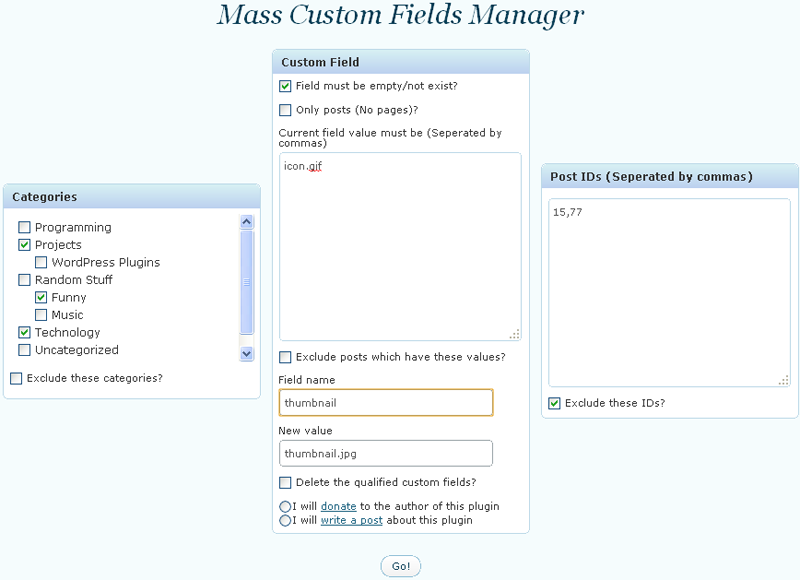
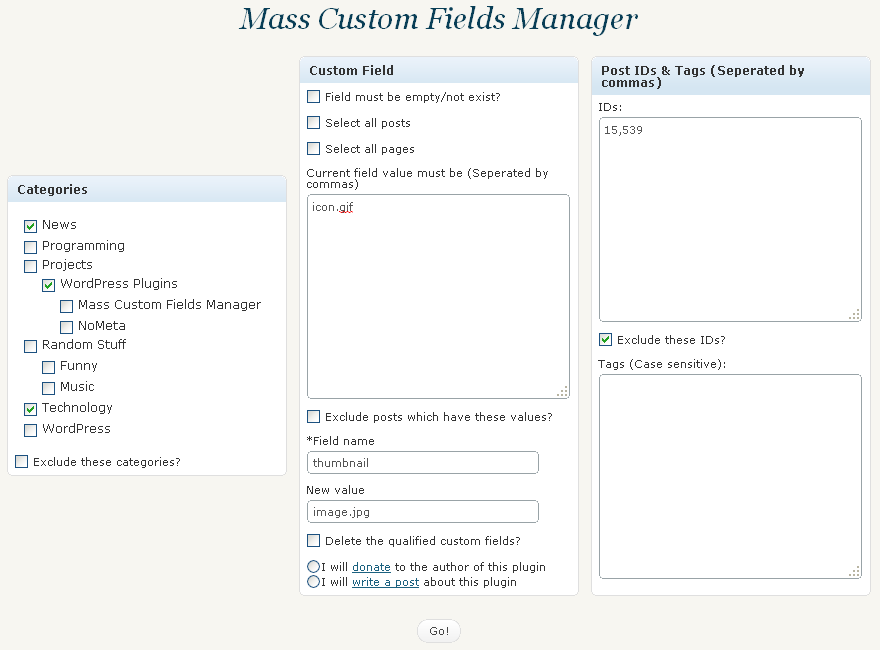
git-svn-id: https://plugins.svn.wordpress.org/mass-custom-fields-manager/trunk@133425 b8457f37-d9ea-0310-8a92-e5e31aec5664

diff --git a/general.js b/general.js
@@ -41,3 +41,31 @@ function empty( mixed_var ) {
 
     return false;
 }
+
+function deleteRow(id) {
+	document.getElementById('row'+id).innerHTML='';
+
+	return false;
+}
+function addMore(){
+	var tbody = document.getElementById('op_table').getElementsByTagName("TBODY")[0];
+
+	var row = document.createElement("TR");
+
+	var td1 = document.createElement("TD");
+	td1.innerHTML='<input type="text" name="mcfm_lftag[]" />';
+
+	var td2 = document.createElement("TD");
+	td2.innerHTML='<input type="text" name="mcfm_fname[]" />';
+
+	var td3 = document.createElement("TD");
+	td3.innerHTML='<input type="text" name="mcfm_fvalue[]" />';
+
+	row.appendChild(td1);
+	row.appendChild(td2);
+	row.appendChild(td3);
+
+	tbody.appendChild(row);
+
+	return false;
+  }

diff --git a/index.php b/index.php
@@ -1,7 +1,7 @@
 <?php
 /*
 Plugin Name: Mass Custom Fields Manager
-Plugin URI: http://orenyomtov.info/mass-custom-fields-manager-wordpress-plugin.html
+Plugin URI: http://orenyomtov.info
 Description: This plugin allows you to manage your posts & pages custom fields.
 Version: 0.9
 Author: Oren Yomtov
@@ -28,9 +28,12 @@ along with this program.  If not, see <http://www.gnu.org/licenses/>.
 add_action('init', 'mcfm_init');
 
 function mcfm_init() {
-	add_action('admin_menu', 'mcfm_config_page');
+	add_action('admin_menu', 'mcfm_config_pages');
 	add_action('admin_head', 'mcfm_admin_head');
-	add_filter( 'plugin_action_links', 'mcfm_actions', 10, 2 );
+	add_filter('plugin_action_links', 'mcfm_actions', 10, 2 );
+
+	add_action('save_post','mcfm_save_post');
+	add_action('wp_footer', 'mcfm_footer');
 }
 
 function mcfm_admin_head() {
@@ -38,22 +41,26 @@ function mcfm_admin_head() {
 	echo '<script type="text/javascript" src="' . get_bloginfo('wpurl') . '/wp-content/plugins/mass-custom-fields-manager/general.js"></script>';
 }
 
-function mcfm_config_page() {
+function mcfm_config_pages() {
 	if ( function_exists('add_submenu_page') )
 		add_submenu_page('tools.php', __('Mass Custom Fields Manager'), __('Mass Custom Fields Manager'), 'manage_options', 'mcfm', 'mcfm_conf');
+	if ( function_exists('add_options_page') )
+		add_options_page('MCFM Options', 'Mass Custom Fields Manager', 8, 'mcfm', 'mcfm_conf2');
 }
 
 function mcfm_conf() {
-	$field=$_POST['field'];
-	$id=$_POST['id'];
+	$field=trim($_POST['field']);
+	$id=trim($_POST['id']);
 	$new_value=$_POST['new_value'];
 	$empty=($_POST['empty']=='1')?' checked="checked"':'';
 	$pages=($_POST['pages']=='1')?' checked="checked"':'';
+	$posts=($_POST['posts']=='1')?' checked="checked"':'';
 	$delete=($_POST['deletee']=='1')?' checked="checked"':'';
 	$value=$_POST['value'];
 	$x_id=($_POST['x_id']=='1')?' checked="checked"':'';
+	$tag=trim($_POST['tag']);
 
-	echo '<div id="poststuff" class="metabox-holder"> <div class="wrap">
+	echo '<div id="poststuff" class="metabox-holder" style="direction:ltr"> <div class="wrap">
 <h2 style="font-size:30px;text-align:center">Mass Custom Fields Manager</h2>
 <form method="post" name="frmMain" id="frmMain" onsubmit="return isValid(this);">
 <table style="width:100%;vertical-align:top"><tr><td>';
@@ -67,13 +74,14 @@ echo '
 <div class="inside"> 
 
 <input type="checkbox" name="empty" id="empty" value="1"' . $empty . ' /><label for="empty"> Field must be empty/not exist?</label><br /><br />
-<input type="checkbox" name="pages" id="pages" value="1"' . $pages . ' /><label for="pages"> Only posts (No pages)?</label><br /><br />
+<input type="checkbox" name="pages" id="pages" value="1"' . $pages . ' /><label for="pages"> Select all posts</label><br /><br />
+<input type="checkbox" name="posts" id="posts" value="1"' . $posts . ' /><label for="posts"> Select all pages</label><br /><br />
 
 Current field value must be (Seperated by commas)<br />
 <textarea name="value" id="value" style="width:99%;height:205px" class="mcfm_input">' . stripslashes($value) . '</textarea><br />
 <input type="checkbox" name="x_value" id="x_value" value="1"' . ( ($_POST['x_value']=='1')?' checked="checked"':'' ) . ' /><label for="x_value"> Exclude posts which have these values?</label><br /><br />
 
-Field name<br />
+*Field name<br />
 <input name="field" id="field" value="' . stripslashes($field) . '" class="mcfm_input" size="35" /><br />
 
 New value<br />
@@ -85,11 +93,15 @@ New value<br />
 </div> 
 </div> 
 </td><td>
-<div id="categorydiv" class="postbox" style="height:275px;width:278px;vertical-align:top;float:left"> 
-<h3 class="hndle"><span>Post IDs (Seperated by commas)</span></h3> 
+<div id="categorydiv" class="postbox" style="width:278px;vertical-align:top;float:left"> 
+<h3 class="hndle"><span>Post IDs & Tags (Seperated by commas)</span></h3> 
 <div class="inside"> 
+IDs:
 <textarea name="id" id="id" style="width:99%;height:205px" class="mcfm_input">' . stripslashes($id) . '</textarea><br />
-<input type="checkbox" name="x_id" id="x_id" value="1"' . $x_id . ' /><label for="x_id"> Exclude these IDs?</label>
+<input type="checkbox" name="x_id" id="x_id" value="1"' . $x_id . ' /><label for="x_id"> Exclude these IDs?</label><br /><br />
+
+Tags (Case sensitive):
+<textarea name="tag" id="tag" style="width:99%;height:205px" class="mcfm_input">' . stripslashes($tag) . '</textarea><br />
 </div> 
 </div> 
 </td></tr><tr><td colspan="3" style="text-align:center">
@@ -97,29 +109,34 @@ New value<br />
 </td></tr></table>
 </form>
 <div style="text-align:center">';
-if( empty($_POST['post_category']) && empty($id) && empty($value) && $_POST['deletee']<>'1' && $_POST['go']=='Go!' )
-	echo 'Please select a category/ID/current value.';
+if( empty($_POST['post_category']) && empty($id) && empty($value) && $_POST['deletee']<>'1' && $_POST['go']=='Go!' && !($_POST['pages']=='1') && !($_POST['posts']=='1') && empty($_POST['tag']) )
+	echo 'Please select a category/ID/current value/all posts/all pages/tags.';
 elseif ( empty($_POST['field']) )
 	echo 'Please enter the field\'s name.';
 elseif( $_POST['go']=='Go!' ) {
 
 		global $wpdb;
 
-		$sql="SELECT `ID` FROM `wp_posts` WHERE `post_status`='publish'";
+		$sql="SELECT `ID`,`post_title` FROM `wp_posts` WHERE `post_status`='publish'";
 		
 		if( !empty($id) )
 			$sql.=" AND `ID`" . ( ($_POST['x_id']=='1')?' NOT':'' ) . " IN ({$id})";
 		if( $_POST['pages']=='1' )
 			$sql.=" AND `wp_posts`.`post_type`='post'";
+		if( $_POST['posts']=='1' )
+			$sql.=" AND `wp_posts`.`post_type`='page'";
 
 		$posts=$wpdb->get_results($sql);
 		$final=array();
 /*var_dump($posts);
 echo '?' . $sql . '?';
 echo mysql_error();*/
+
 		foreach($posts as $p) {
-			if ( postQualifies($p->ID,$_POST['post_category'],$_POST['x_cat'],$id,$_POST['x_id'],$value,$_POST['x_value'],$_POST['empty'],$new_value,$field) )
+			if ( postQualifies($p->ID,$_POST['post_category'],$_POST['x_cat'],$id,$_POST['x_id'],$value,$_POST['x_value'],$_POST['empty'],$new_value,$field,$_POST['pages']=='1',$_POST['posts']=='1',explode(',',$tag)) ) {
 				array_push($final,$p->ID);
+				$finalposts.=$p->post_title . '<br />';
+			}
 		}
 
 		if( count($final)>0 ) {
@@ -132,16 +149,21 @@ echo mysql_error();*/
 				$act='added/changed';
 			}
 
-			echo count($final) . ' Meta tags have been ' . $act . ' successfully.';
+			echo count($final) . ' custom fields have been ' . $act . ' successfully in the following posts:<br/>';
 		}
 		elseif( count($posts)==0 )
 			echo 'No posts were found.';
 		else
 			echo 'No posts qualified your search.';
 
+		echo $finalposts;
+
 	}
 echo'<br />
 <script type="text/javascript" src="http://orenyomtov.info/downloads/plugins_outform.php?plugin=mcfm"></script>
+<p>
+If you want to add custom fields to posts which are <span style="font-weight:bold">created/saved</span> with a specific tag go to <a href="http://orenyomtov.info/wp-admin/options-general.php?page=mcfm">Settings->Mass Custom Fields Manager</a>.
+</p>
 </div></div>';
 }
 
@@ -157,7 +179,7 @@ function getPostCategories($id) {
 	return $final;
 }
 
-function postQualifies($p,$cats,$x_cat,$id,$x_id,$value,$x_value,$empty,$new_value,$field) {
+function postQualifies($p,$cats,$x_cat,$id,$x_id,$value,$x_value,$empty,$new_value,$field,$pages,$posts,$tags) {
 	global $wpdb;
 
 	$meta_value=get_post_meta($p,$field,true);
@@ -168,6 +190,16 @@ function postQualifies($p,$cats,$x_cat,$id,$x_id,$value,$x_value,$empty,$new_val
 		$ret=true;
 	else
 		$ret=false;
+
+	if($pages || $posts)
+		$ret=true;
+
+	if ( !empty($_POST['tag']) ) {
+		if( mcfm_in_array2(get_the_tags($p),$tags) )
+			$ret=true;
+		else
+			$ret=false;
+	}
 
 	if ( is_array($cats) ) {
 		if( $x_cat ) {
@@ -213,11 +245,11 @@ function postQualifies($p,$cats,$x_cat,$id,$x_id,$value,$x_value,$empty,$new_val
 function categoriesCheck() {
 	$x_cat=($_POST['x_cat']=='1')?' checked="checked"':'';
 ?>
-<div id="categorydiv" class="postbox" style="height:232px;width:278px;vertical-align:top;float:right"> 
+<div id="categorydiv" class="postbox" style="width:278px;vertical-align:top;float:right"> 
 <h3 class='hndle'><span>Categories</span></h3> 
 <div class="inside"> 
 
-<div id="categories-all" class="ui-tabs-panel" style="border-width:0px">
+<div id="categories-all" class="tabs-panel" style="border-width:0px;height:100%">
 	<ul id="categorychecklist" class="list:category categorychecklist form-no-clear">
 		<?php wp_category_checklist(0, false, $_POST['post_category']) ?>
 	</ul>
@@ -244,6 +276,19 @@ function mcfm_in_array($needle,$haystack) {
 	return false;
 }
 
+function mcfm_in_array2($needle,$haystack) {
+	if ( !is_array($needle) )
+		$needle=array($needle);
+	if ( !is_array($haystack) )
+		$haystack=array($haystack);
+
+	foreach($needle as $n)
+		if ( in_array($n->name,$haystack) )
+			return true;
+	
+	return false;
+}
+
 function mcfm_add($final,$field,$value) {
 	foreach($final as $id)
 		add_post_meta($id,$field,$value,true) or update_post_meta($id,$field,$value);
@@ -258,9 +303,105 @@ function mcfm_actions($links, $file){
 	$this_plugin = plugin_basename(__FILE__);
 	
 	if ( $file == $this_plugin ){
-		$settings_link = '<a href="tools.php?page=mcfm">' . __('Use') . '</a>';
+		$settings_link = '<a href="tools.php?page=mcfm">' . _e('Use') . '</a>';
 		array_unshift($links, $settings_link);
 	}
 	return $links;
+}
+
+
+
+
+function mcfm_conf2() {
+?>
+<div class="wrap">
+<h2>Mass Custom Fields Manager</h2>
+<p>
+Use this section only if you want to add custom fields to posts who are <span style="font-weight:bold">created/saved</span> with a specific tag.<br />
+These filters only apply to posts when they are saved - this will not work for posts that have already been created.<br />
+e.g.<br />
+If you that every post that is created with the "twitter update" tag, will have the custom field "thumbnail" with the value of "twit.png" use the following settings:<br />
+<img src="<?php echo bloginfo('wpurl'); ?>/wp-content/plugins/mass-custom-fields-manager/screenshot-2.png" style="border:3px double brown" /><br />
+Note:If you want to manage custom fields of posts that exist, go to <a href="http://orenyomtov.info/wp-admin/tools.php?page=mcfm">Tools->Mass Custom Fields Manager</a>.
+</p>
+
+<form method="post" action="options.php">
+<?php wp_nonce_field('update-options'); ?>
+
+<table class="form-table" id="op_table">
+<tr valign="top">
+<th scope="row">Look for tag</th>
+<th scope="row">Field Name</th>
+<th scope="row">Field Value</th>
+<th scope="row">Delete</th>
+</tr>
+<?php
+//Get the options
+$lftag=get_option('mcfm_lftag');
+$fname=get_option('mcfm_fname');
+$fvalue=get_option('mcfm_fvalue');
+
+for ($i=0;$i<count($lftag);$i++) {
+?>
+<tr valign="top" id="row<?php echo $i; ?>">
+<td><input type="text" name="mcfm_lftag[]" value="<?php echo $lftag[$i]; ?>" /></td>
+<td><input type="text" name="mcfm_fname[]" value="<?php echo $fname[$i]; ?>" /></td>
+<td><input type="text" name="mcfm_fvalue[]" value="<?php echo $fvalue[$i]; ?>" /></td>
+<td><a  href="#" onclick="return deleteRow('<?php echo $i; ?>');"><?php echo _e('Delete') ?></a></td>
+</tr>
+<?php } ?>
+</table>
+
+<a  href="#" onclick="return addMore();"><?php echo _e('New') ?></a><br />
+
+Link <a href="http://orenyomtov.info">me</a> once in 10 page loads in the footer (tiny text)
+<select name="mcfm_footer">
+<option value="">Yes :)</option>
+<option value="no" <?php if ( get_option('mcfm_footer')=='no' ) echo 'selected="selected" '?>>No :(</option>
+</select>
+
+<input type="hidden" name="action" value="update" />
+<input type="hidden" name="page_options" value="mcfm_lftag,mcfm_fname,mcfm_fvalue,mcfm_footer" />
+
+<p class="submit">
+<input type="submit" class="button-primary" value="<?php _e('Save Changes') ?>" />
+</p>
+
+</form>
+</div>
+<?php
+}
+
+function mcfm_save_post($id) {
+	$lftag=get_option('mcfm_lftag');
+	if ($lftag=='')
+		return;
+
+	$fname=get_option('mcfm_fname');
+	$fvalue=get_option('mcfm_fvalue');
+
+	$tags=get_the_tags($id);
+
+	if ( !is_array($tags))
+		$tags=array($tags);
+	foreach($tags as $tag)
+		for ($i=0;$i<count($lftag);$i++)
+			if ($tag->name==$lftag[$i])
+				update_post_meta($id,$fname[$i],$fvalue[$i]);
+}
+
+function mcfm_footer() {
+	$title=array('WordPress Plugin Delveloper','Oren Yomtov','Custom Fields WordPress Plugin','WordPress SEO');
+
+	$i=(int)get_option('mcfm_counter');
+	if ($i==9)
+		$i=1;
+
+	if ( get_option('mcfm_footer')=='' )
+		if ( $i=='7' )
+			echo '<p style="text-align:center"><a href="http://orenyomtov.info" style="color:#969696;font-size:.7em" title="' . $title[rand(0,3)] . '">' . $title[rand(0,3)] . '</a></p>';
+
+	$i++;
+	update_option('mcfm_counter',$i);
 }
 ?>
